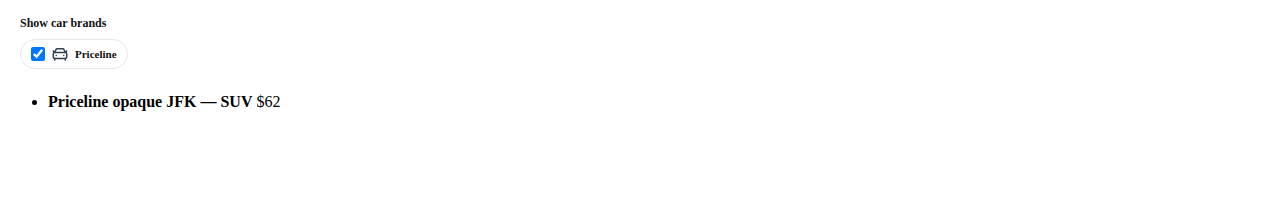
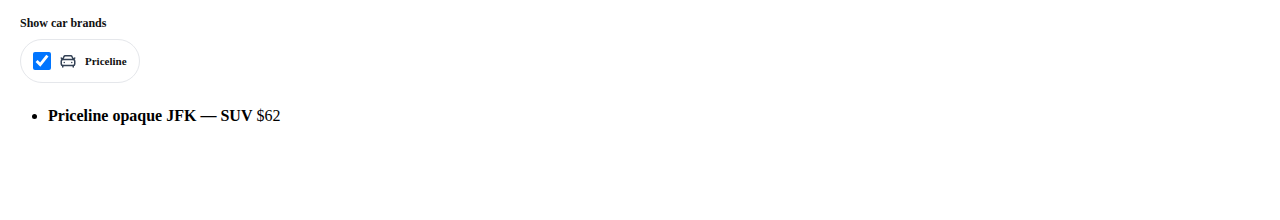
fix(#993): vkfill-982 round result (host-published)

Changed region(s): [[0.0, 0.4364, 0.2188, 0.5727], [0.0, 0.2182, 0.125, 0.3273], [0.0312, 0.3545, 0.0938, 0.3818]]

diff --git a/J/RECEIPT.md b/J/RECEIPT.md
@@ -1,6 +1,6 @@
 # TSV #982 — Cars brand checkboxes (composer-2.5 lane)
 
-**Starting HEAD:** `a1dea86f131c39a0571cbfcb05783d159cf7376d` (`git rev-parse HEAD` before edit)
+**PRE-DONE fix starting HEAD:** `27730e4641e7af796f2cf13e8e66b434e5d7e6cb` (feature commit already on branch)
 
 ## Change
 
@@ -8,8 +8,7 @@
 | --- | --- |
 | `public/ts-car-brand-filter.js` | One reversible checkbox per rental brand (logo + name), 44px touch chips, hide per-vehicle Remove buttons without deleting Things; short Priceline Express Deal label |
 | `scripts/test_acceptance_982_car_brand_checkboxes.mjs` | NYC snapshot fixture: brand toggles, no Remove, Hertz/Thrifty hide+restore @ 390 and 430 |
-
-Host must add `scripts/test_acceptance_982_car_brand_checkboxes.mjs` to `scripts/offline-tests.txt` before push (lane brief bans editing that manifest).
+| `scripts/offline-tests.txt` | Register acceptance test (PRE-DONE manifest) |
 
 ## Verification (uncommitted; host commit/push)
 
@@ -18,7 +17,9 @@ Host must add `scripts/test_acceptance_982_car_brand_checkboxes.mjs` to `scripts
 | `node scripts/test_car_brand_filter_scope.mjs` | pass |
 | `node scripts/test_acceptance_982_car_brand_checkboxes.mjs` | pass |
 | `node scripts/check-no-comments.mjs` | pass |
+| `node scripts/test_offline_manifest.mjs` | pass |
 | `BASE=vk node scripts/check-code-ratchet.mjs` | pass |
-| `node scripts/test_offline_manifest.mjs` | **fail** — new test not in manifest (host adds line) |
 
-No git stage/commit/push in lane.
+**Uncommitted paths for host:** `scripts/offline-tests.txt`, `J/RECEIPT.md` (and artifact PNGs under `.artifacts/nyc-screen-verify/screenshots/` if host wants them)
+
+No git stage/commit/push in lane (host publication).
